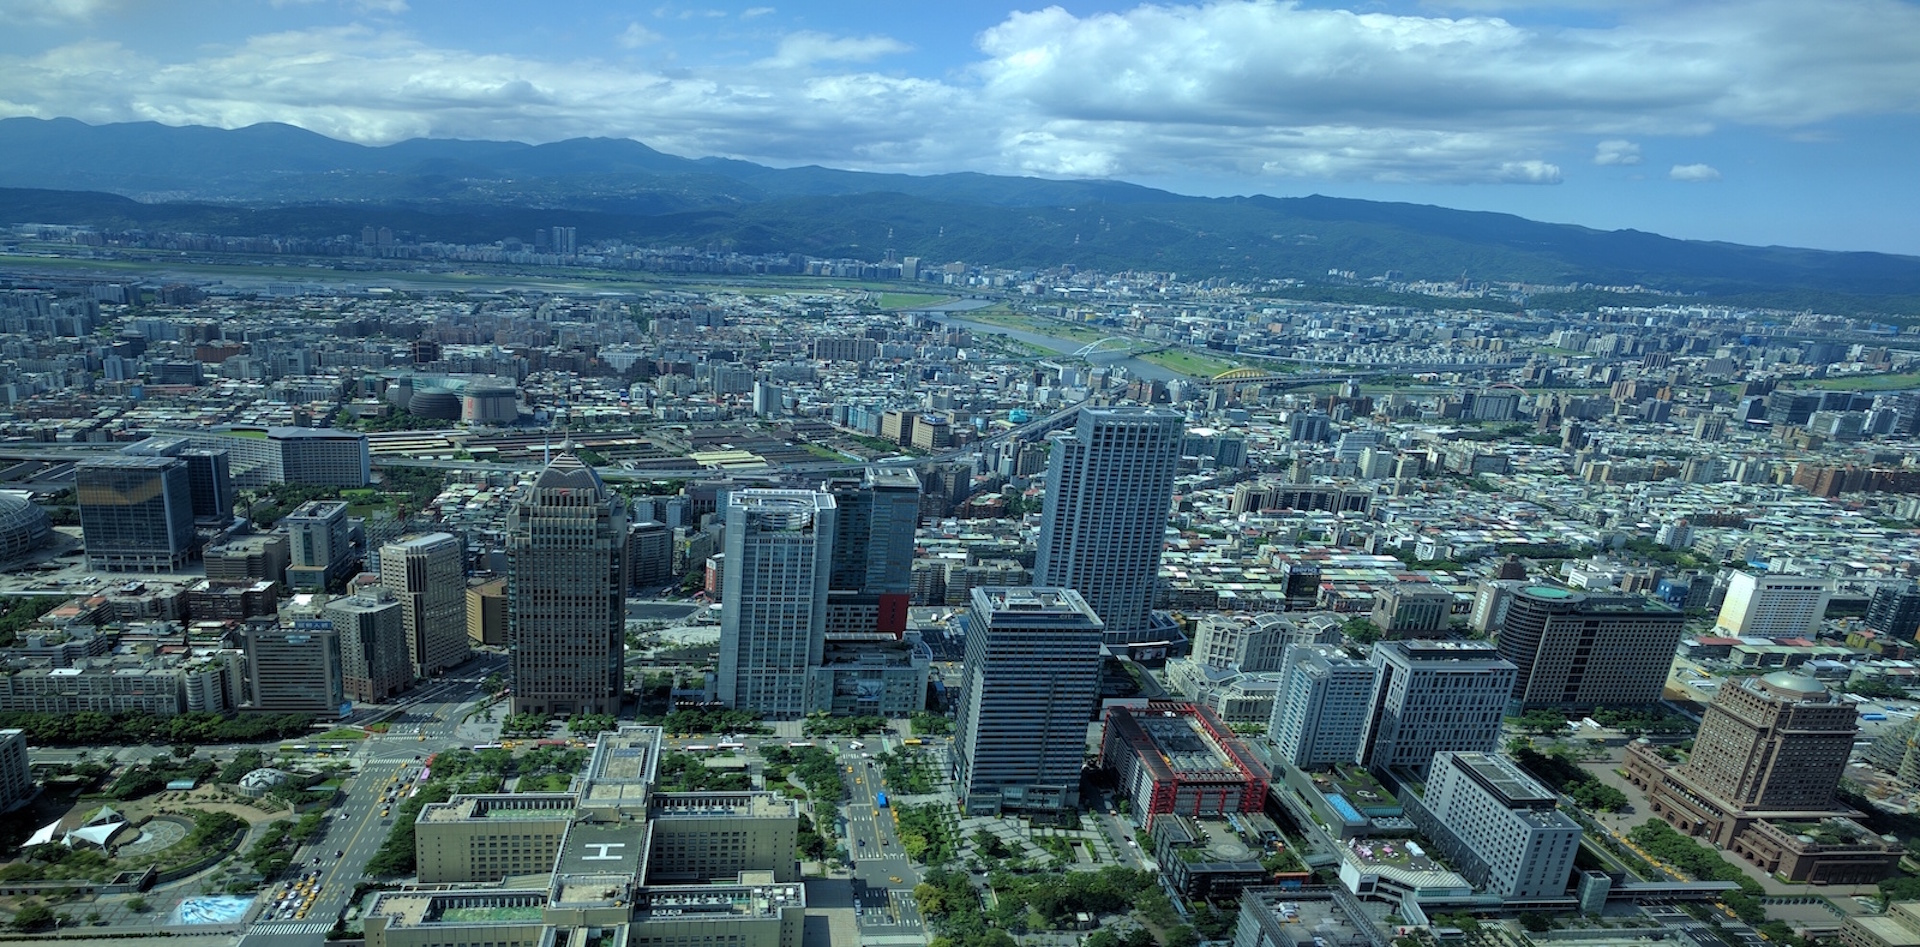
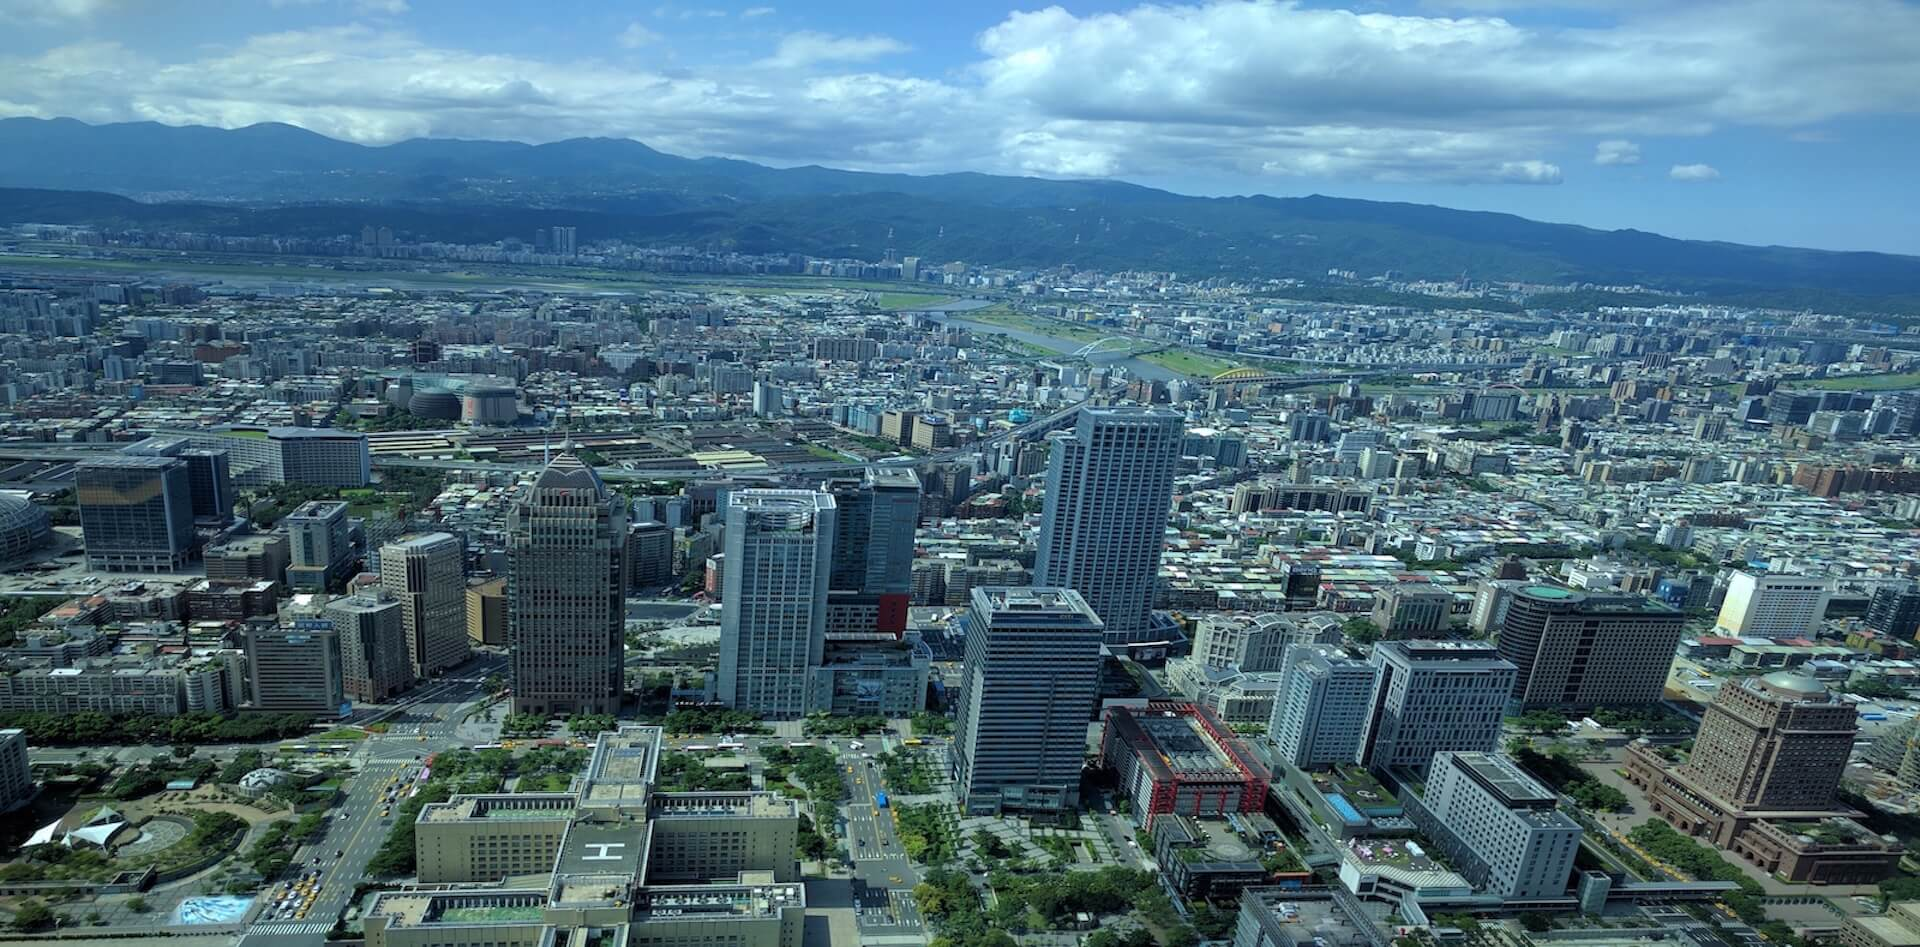
Resize images.

diff --git a/index.html b/index.html
@@ -1,5 +1,6 @@
 <!doctype html>
 <html lang="en">
+
 <head>
   <meta charset="utf-8">
   <meta http-equiv="X-UA-Compatible" content="IE=edge">
@@ -31,8 +32,9 @@
     <div class="android-header mdl-layout__header mdl-layout__header--waterfall">
       <div class="mdl-layout__header-row">
         <span class="android-title mdl-layout-title" style="color: black;">
-            台灣雪豹科技<br/>Leopard Mobile
-          </span>
+          台灣雪豹科技
+          <br/>Leopard Mobile
+        </span>
         <!-- Add spacer, to align navigation to the right in desktop -->
         <div class="android-header-spacer mdl-layout-spacer"></div>
         <!-- <div class="android-search-box mdl-textfield mdl-js-textfield mdl-textfield--expandable mdl-textfield--floating-label mdl-textfield--align-right mdl-textfield--full-width">
@@ -56,8 +58,9 @@
           </nav>
         </div>
         <span class="android-mobile-title mdl-layout-title" style="color: black;">
-            台灣雪豹科技<br/>Leopard Mobile
-          </span>
+          台灣雪豹科技
+          <br/>Leopard Mobile
+        </span>
         <!-- <button class="android-more-button mdl-button mdl-js-button mdl-button--icon mdl-js-ripple-effect" id="more-button">
           <i class="material-icons">more_vert</i>
         </button> -->
@@ -106,7 +109,7 @@
       <div class="android-be-together-section mdl-typography--text-center">
         <div class="logo-font android-slogan">友愛、自信、活力</div>
         <div class="logo-font android-sub-slogan">我們的產品精神是「專注、極致、口碑、快」。
-</div>
+        </div>
         <div class="logo-font android-create-character">
           <img src="images/andy.png">公司與員工同樣年輕，充滿活力，只做第一。
         </div>
@@ -158,13 +161,14 @@
           <div class="android-wear-band-text">
             <div class="mdl-typography--display-2 mdl-typography--font-thin">移動互聯網公司</div>
             <p class="mdl-typography--headline mdl-typography--font-thin">
-                台灣雪豹科技成立於2014年，立志成為本土第一家真正的移動互聯網公司，目前已有超過200位員工。
+              台灣雪豹科技成立於2014年，立志成為本土第一家真正的移動互聯網公司，目前已有超過200位員工。 雪豹科技除了代理國內外優秀App，也自行研發行動應用App。
 
-  雪豹科技除了代理國內外優秀App，也自行研發行動應用App。</p>
+            </p>
             <p>
               <a class="mdl-typography--font-regular mdl-typography--text-uppercase android-alt-link" href="https://play.google.com/store/apps/dev?id=7480941732172192727">
-                  關注我們Google Play上的作品&nbsp;<i class="material-icons">chevron_right</i>
-                </a>
+                關注我們Google Play上的作品&nbsp;
+                <i class="material-icons">chevron_right</i>
+              </a>
             </p>
           </div>
         </div>
@@ -172,11 +176,12 @@
       <div class="android-customized-section">
         <div class="android-customized-section-text">
           <div class="mdl-typography--font-light mdl-typography--display-1-color-contrast">公司的所在位置</div>
-            <p class="mdl-typography--font-light">
-            11047台北市信義區信義路五段7號83樓<br>
-            83F., No.7, Sec. 5, Xinyi Rd., Xinyi Dist., Taipei City 110, Taiwan (R.O.C.)            
+          <p class="mdl-typography--font-light">
+            11047台北市信義區信義路五段7號83樓
+            <br> 83F., No.7, Sec. 5, Xinyi Rd., Xinyi Dist., Taipei City 110, Taiwan (R.O.C.)
             <br>
-            <a href="https://www.google.com.tw/maps/place/110%E8%87%BA%E5%8C%97%E5%B8%82%E4%BF%A1%E7%BE%A9%E5%8D%80%E4%BF%A1%E7%BE%A9%E8%B7%AF%E4%BA%94%E6%AE%B57%E8%99%9F%E5%8F%B0%E5%8C%97101%E5%A4%A7%E6%A8%93/@25.0339079,121.5623212,17z/data=!3m1!4b1!4m13!1m7!3m6!1s0x3442abb6da9c9e1f:0x1206bcf082fd10a6!2zMTEw6Ie65YyX5biC5L-h576p5Y2A5L-h576p6Lev5LqU5q61N-iZn-WPsOWMlzEwMeWkp-aokw!3b1!8m2!3d25.0339031!4d121.5645099!3m4!1s0x3442abb6da9c9e1f:0x1206bcf082fd10a6!8m2!3d25.0339031!4d121.5645099" class="android-link mdl-typography--font-light" target="_blank">開啟地圖</a>
+            <a href="https://www.google.com.tw/maps/place/110%E8%87%BA%E5%8C%97%E5%B8%82%E4%BF%A1%E7%BE%A9%E5%8D%80%E4%BF%A1%E7%BE%A9%E8%B7%AF%E4%BA%94%E6%AE%B57%E8%99%9F%E5%8F%B0%E5%8C%97101%E5%A4%A7%E6%A8%93/@25.0339079,121.5623212,17z/data=!3m1!4b1!4m13!1m7!3m6!1s0x3442abb6da9c9e1f:0x1206bcf082fd10a6!2zMTEw6Ie65YyX5biC5L-h576p5Y2A5L-h576p6Lev5LqU5q61N-iZn-WPsOWMlzEwMeWkp-aokw!3b1!8m2!3d25.0339031!4d121.5645099!3m4!1s0x3442abb6da9c9e1f:0x1206bcf082fd10a6!8m2!3d25.0339031!4d121.5645099"
+              class="android-link mdl-typography--font-light" target="_blank">開啟地圖</a>
           </p>
         </div>
         <div class="android-customized-section-image"></div>
@@ -184,30 +189,33 @@
       <footer class="android-footer mdl-mega-footer">
         <div class="mdl-mega-footer--top-section">
           <div class="mdl-mega-footer--left-section">
-              <a href="https://www.linkedin.com/company/9549268?trk=tyah&trkInfo=clickedVertical%3Acompany%2CclickedEntityId%3A9549268%2Cidx%3A2-1-2%2CtarId%3A1465295362105%2Ctas%3ALeopard%20mobile" target="_blank">
-                  <img src="images/ic_linkedin.png" class="mdl-mega-footer--social-btn"/>
-              </a>
+            <a href="https://www.linkedin.com/company/9549268?trk=tyah&trkInfo=clickedVertical%3Acompany%2CclickedEntityId%3A9549268%2Cidx%3A2-1-2%2CtarId%3A1465295362105%2Ctas%3ALeopard%20mobile"
+              target="_blank">
+              <img src="images/ic_linkedin.png" class="mdl-mega-footer--social-btn" />
+            </a>
             &nbsp;
             <a href="https://www.facebook.com/pages/%E5%8F%B0%E7%81%A3%E9%9B%AA%E8%B1%B9%E7%A7%91%E6%8A%80/449083778565495" target="_blank">
-                <img src="images/ic_facebook.png" class="mdl-mega-footer--social-btn"/>
+              <img src="images/ic_facebook.png" class="mdl-mega-footer--social-btn" />
             </a>
           </div>
           <div class="mdl-mega-footer--right-section">
             <a class="mdl-typography--font-light" href="#top">
-                Back to Top
-                <i class="material-icons">expand_less</i>
-              </a>
+              Back to Top
+              <i class="material-icons">expand_less</i>
+            </a>
           </div>
         </div>
 
         <div class="mdl-mega-footer--middle-section">
-          <p class="mdl-typography--font-light">BH_Lin: © 2017 Studio Bing-Huan<br/>統一編號：54682636,<br/>聯絡電話：<a href="tel:02-8101-0288">tel: 02-8101-0288</a></p>
+          <p class="mdl-typography--font-light">@BH_Lin<br/> © 2018 Studio Bing-Huan
+            <br/>統一編號：54682636,
+            <br/>聯絡電話：
+            <a href="tel:02-8101-0288">tel: 02-8101-0288</a>
+          </p>
           <p class="mdl-typography--font-light"></p>
-          <p class="mdl-typography--font-light"></p
+          <p class="mdl-typography--font-light"></p> </div>
 
-        </div>
-
-        <!-- <div class="mdl-mega-footer--bottom-section">
+          <!-- <div class="mdl-mega-footer--bottom-section">
           <a class="android-link android-link-menu mdl-typography--font-light" id="version-dropdown">
               Versions
               <i class="material-icons">arrow_drop_up</i>
@@ -233,9 +241,9 @@
         </div> -->
 
       </footer>
+      </div>
     </div>
-  </div>
-  <script defer src="https://code.getmdl.io/1.1.3/material.min.js"></script>
+    <script defer src="https://code.getmdl.io/1.1.3/material.min.js"></script>
 </body>
 
 </html>
